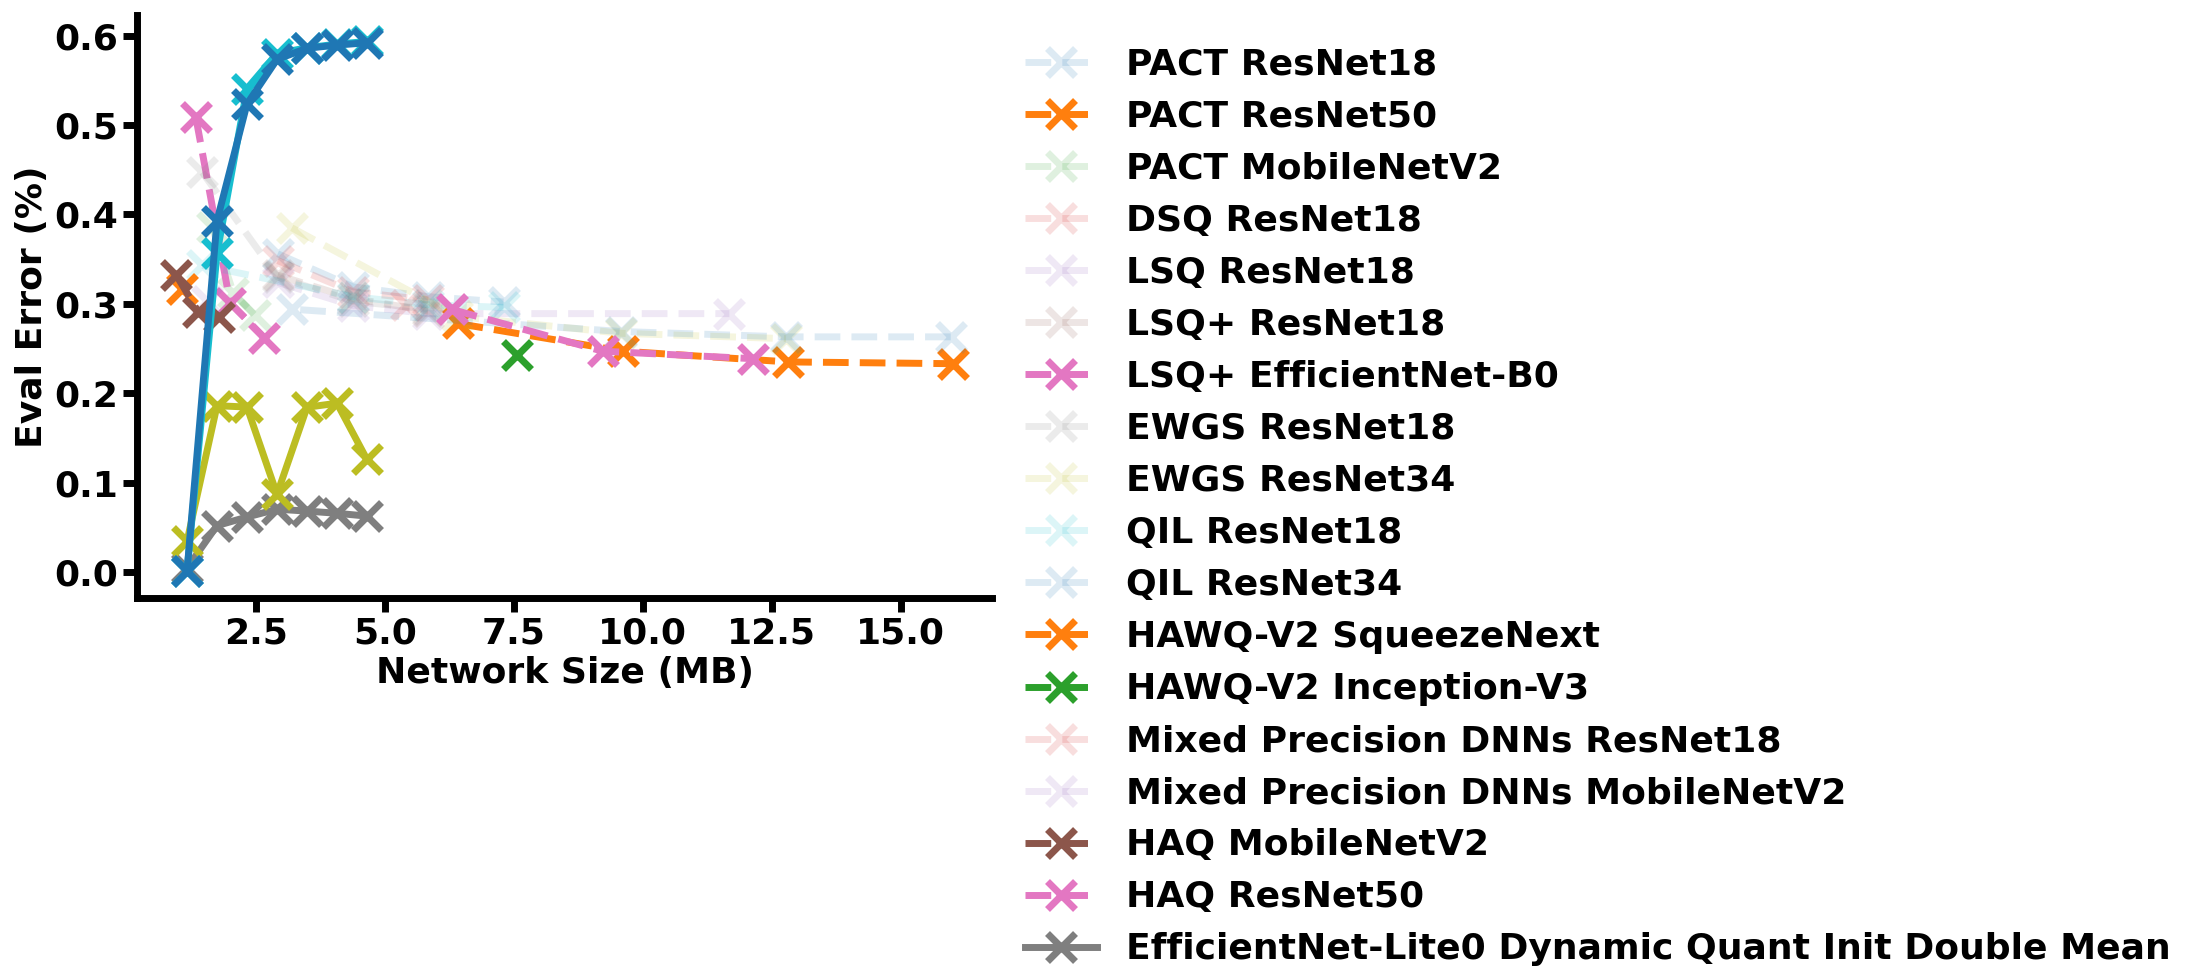
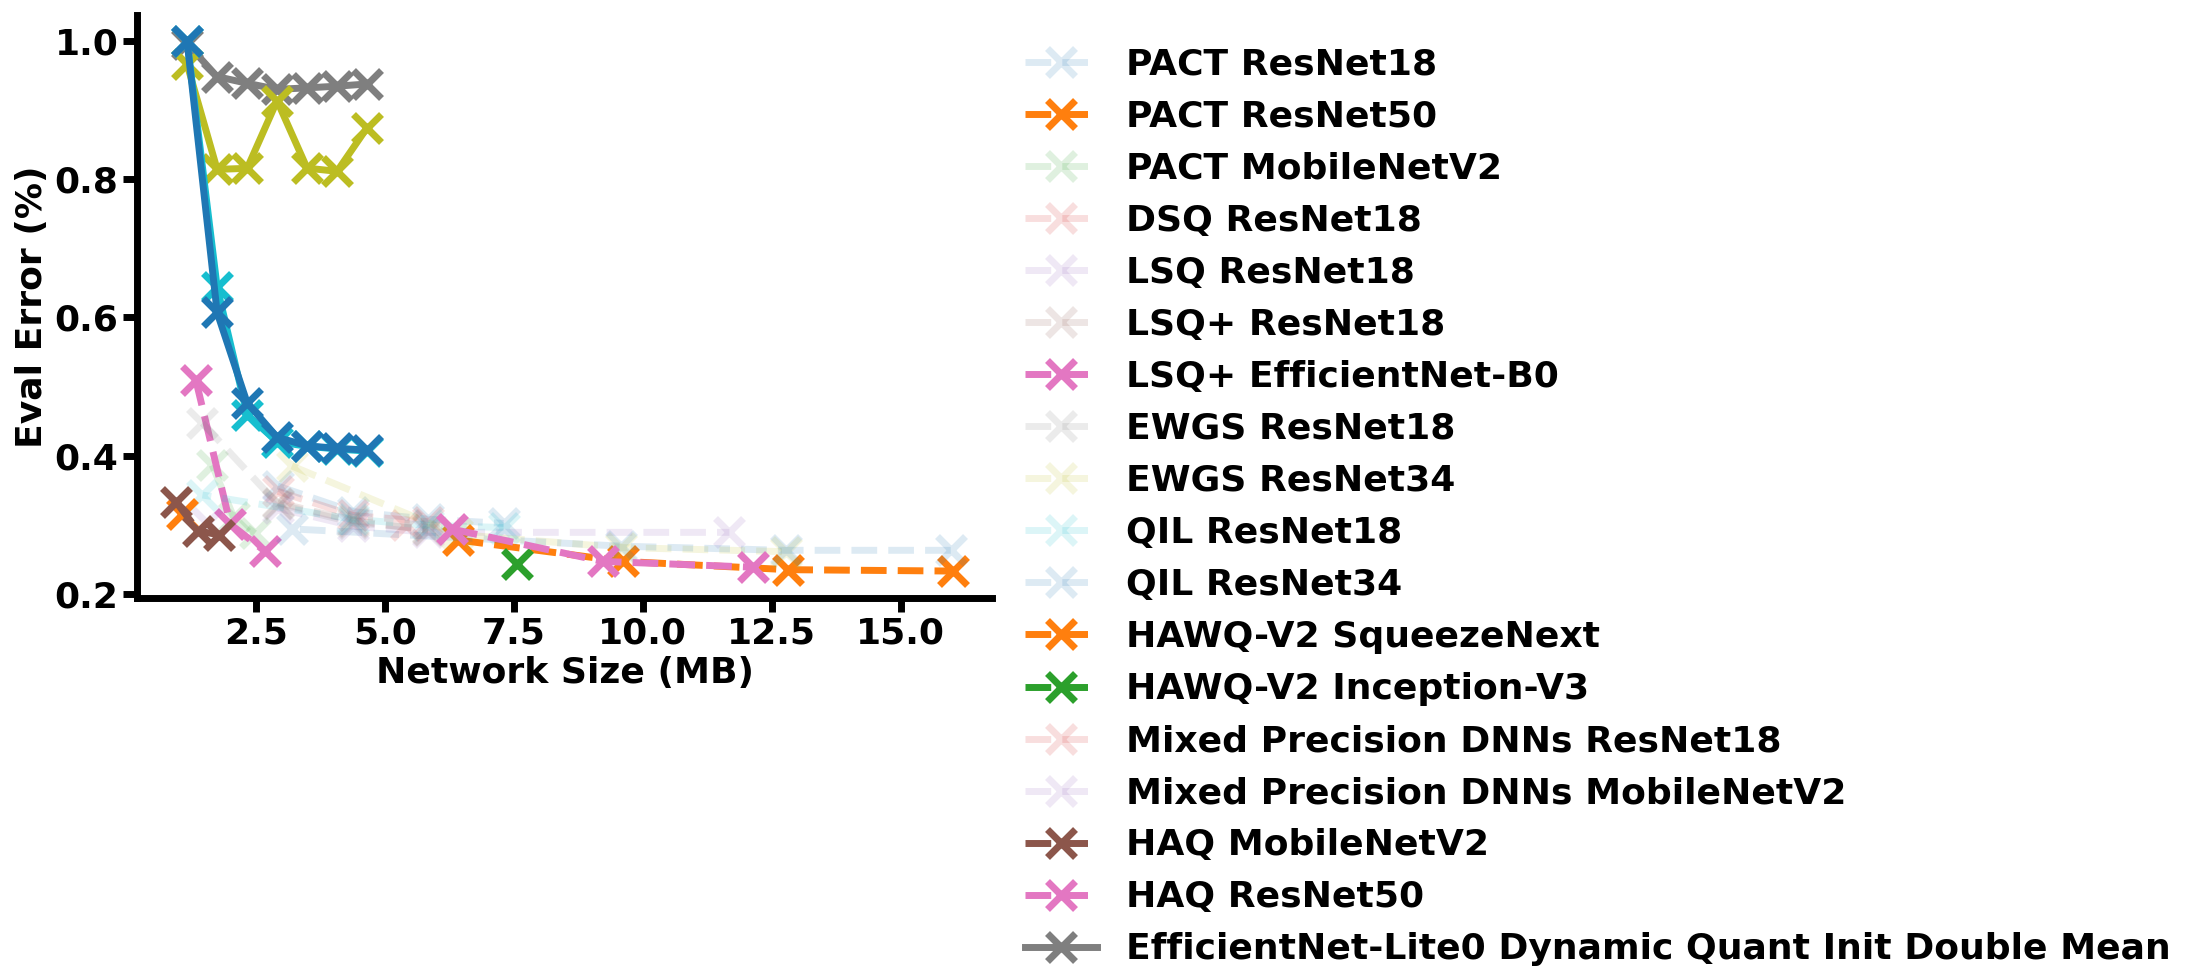
normal - new fig

Changed region(s): [[0.0, 0.0306, 0.4636, 0.6429]]

diff --git a/examples/efficientnet/visualization.py b/examples/efficientnet/visualization.py
@@ -430,7 +430,7 @@ def plot_line(ax, res_dict):
     elif key == 'params':
       num_params = value
     else:
-      y.append(get_best_eval(value))
+      y.append(1-get_best_eval(value))
       x.append(key * res_dict['params'] / 8_000_000)
 
   print(label)
@@ -523,7 +523,7 @@ if __name__ == '__main__':
       "This notebook requires TensorBoard 2.3 or later."
   print("TensorBoard version: ", tb.__version__)
 
-  plot_comparison('overview.png')
+  plot_comparison('figures/overview.png')
 
   # plot_bits_vs_acc([enet0_dynamic_init_max, enet0_dynamic_init_double_mean,
   #                   enet0_dynamic_init_gaussian], 'figures/dynamic_init.png')
